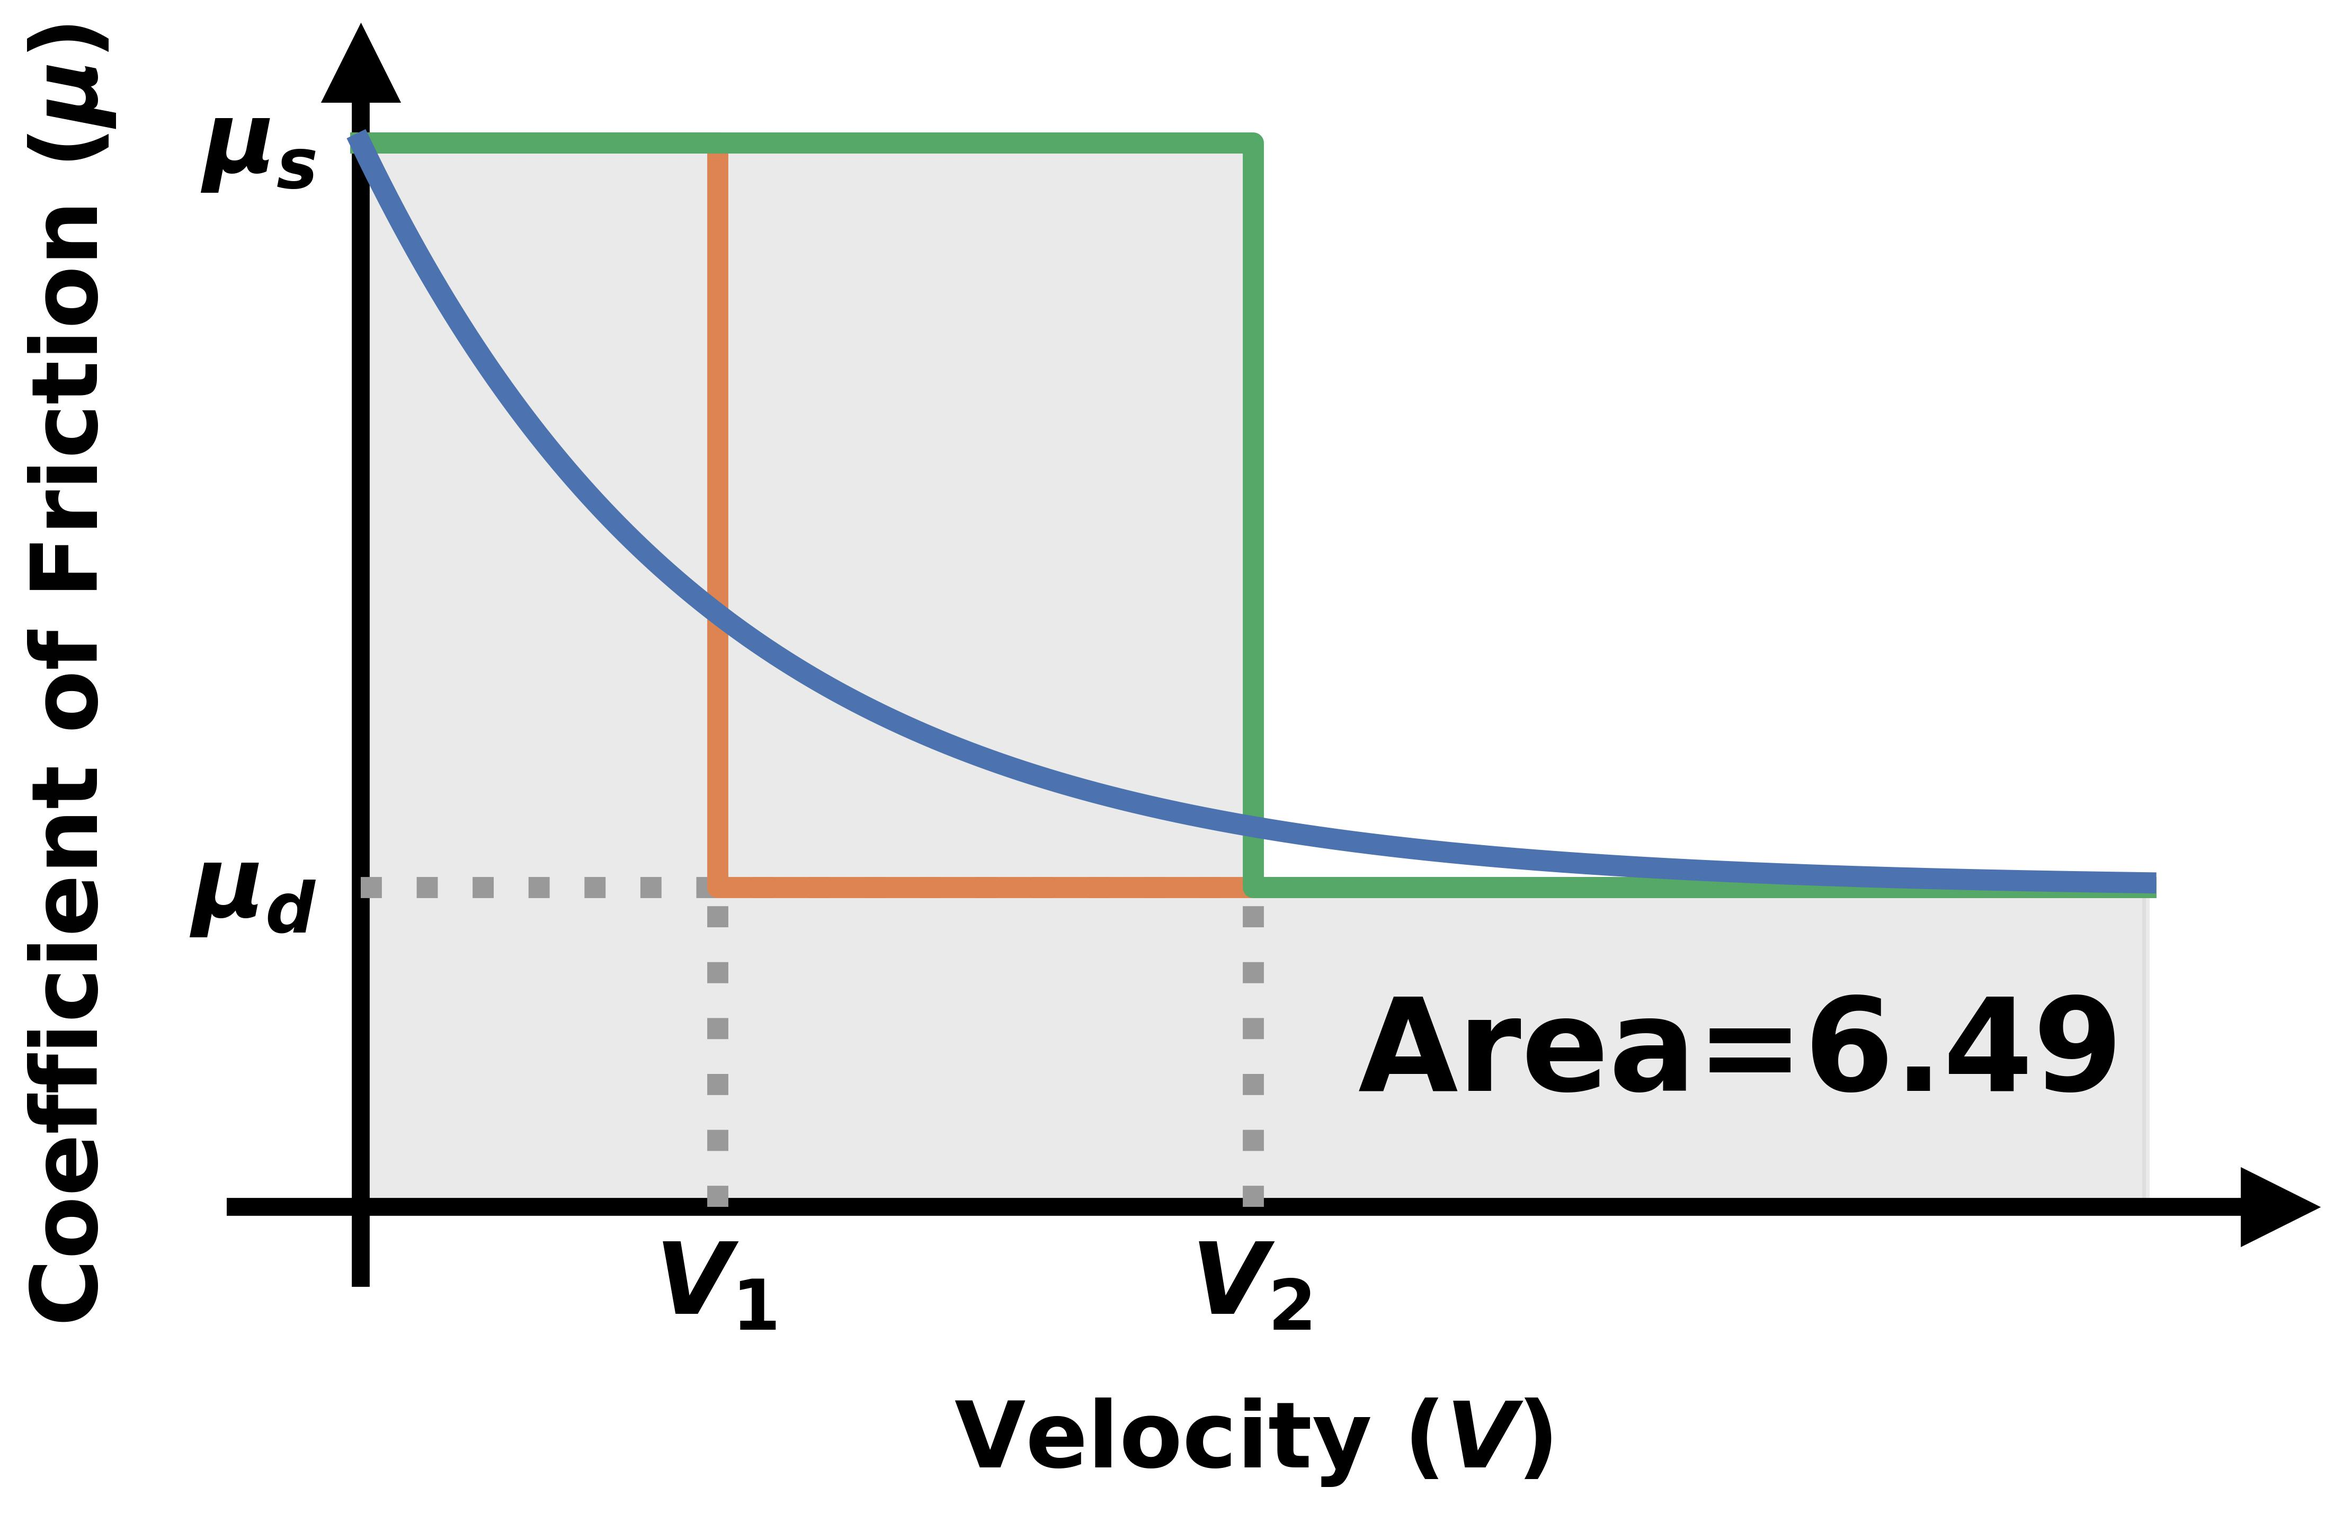
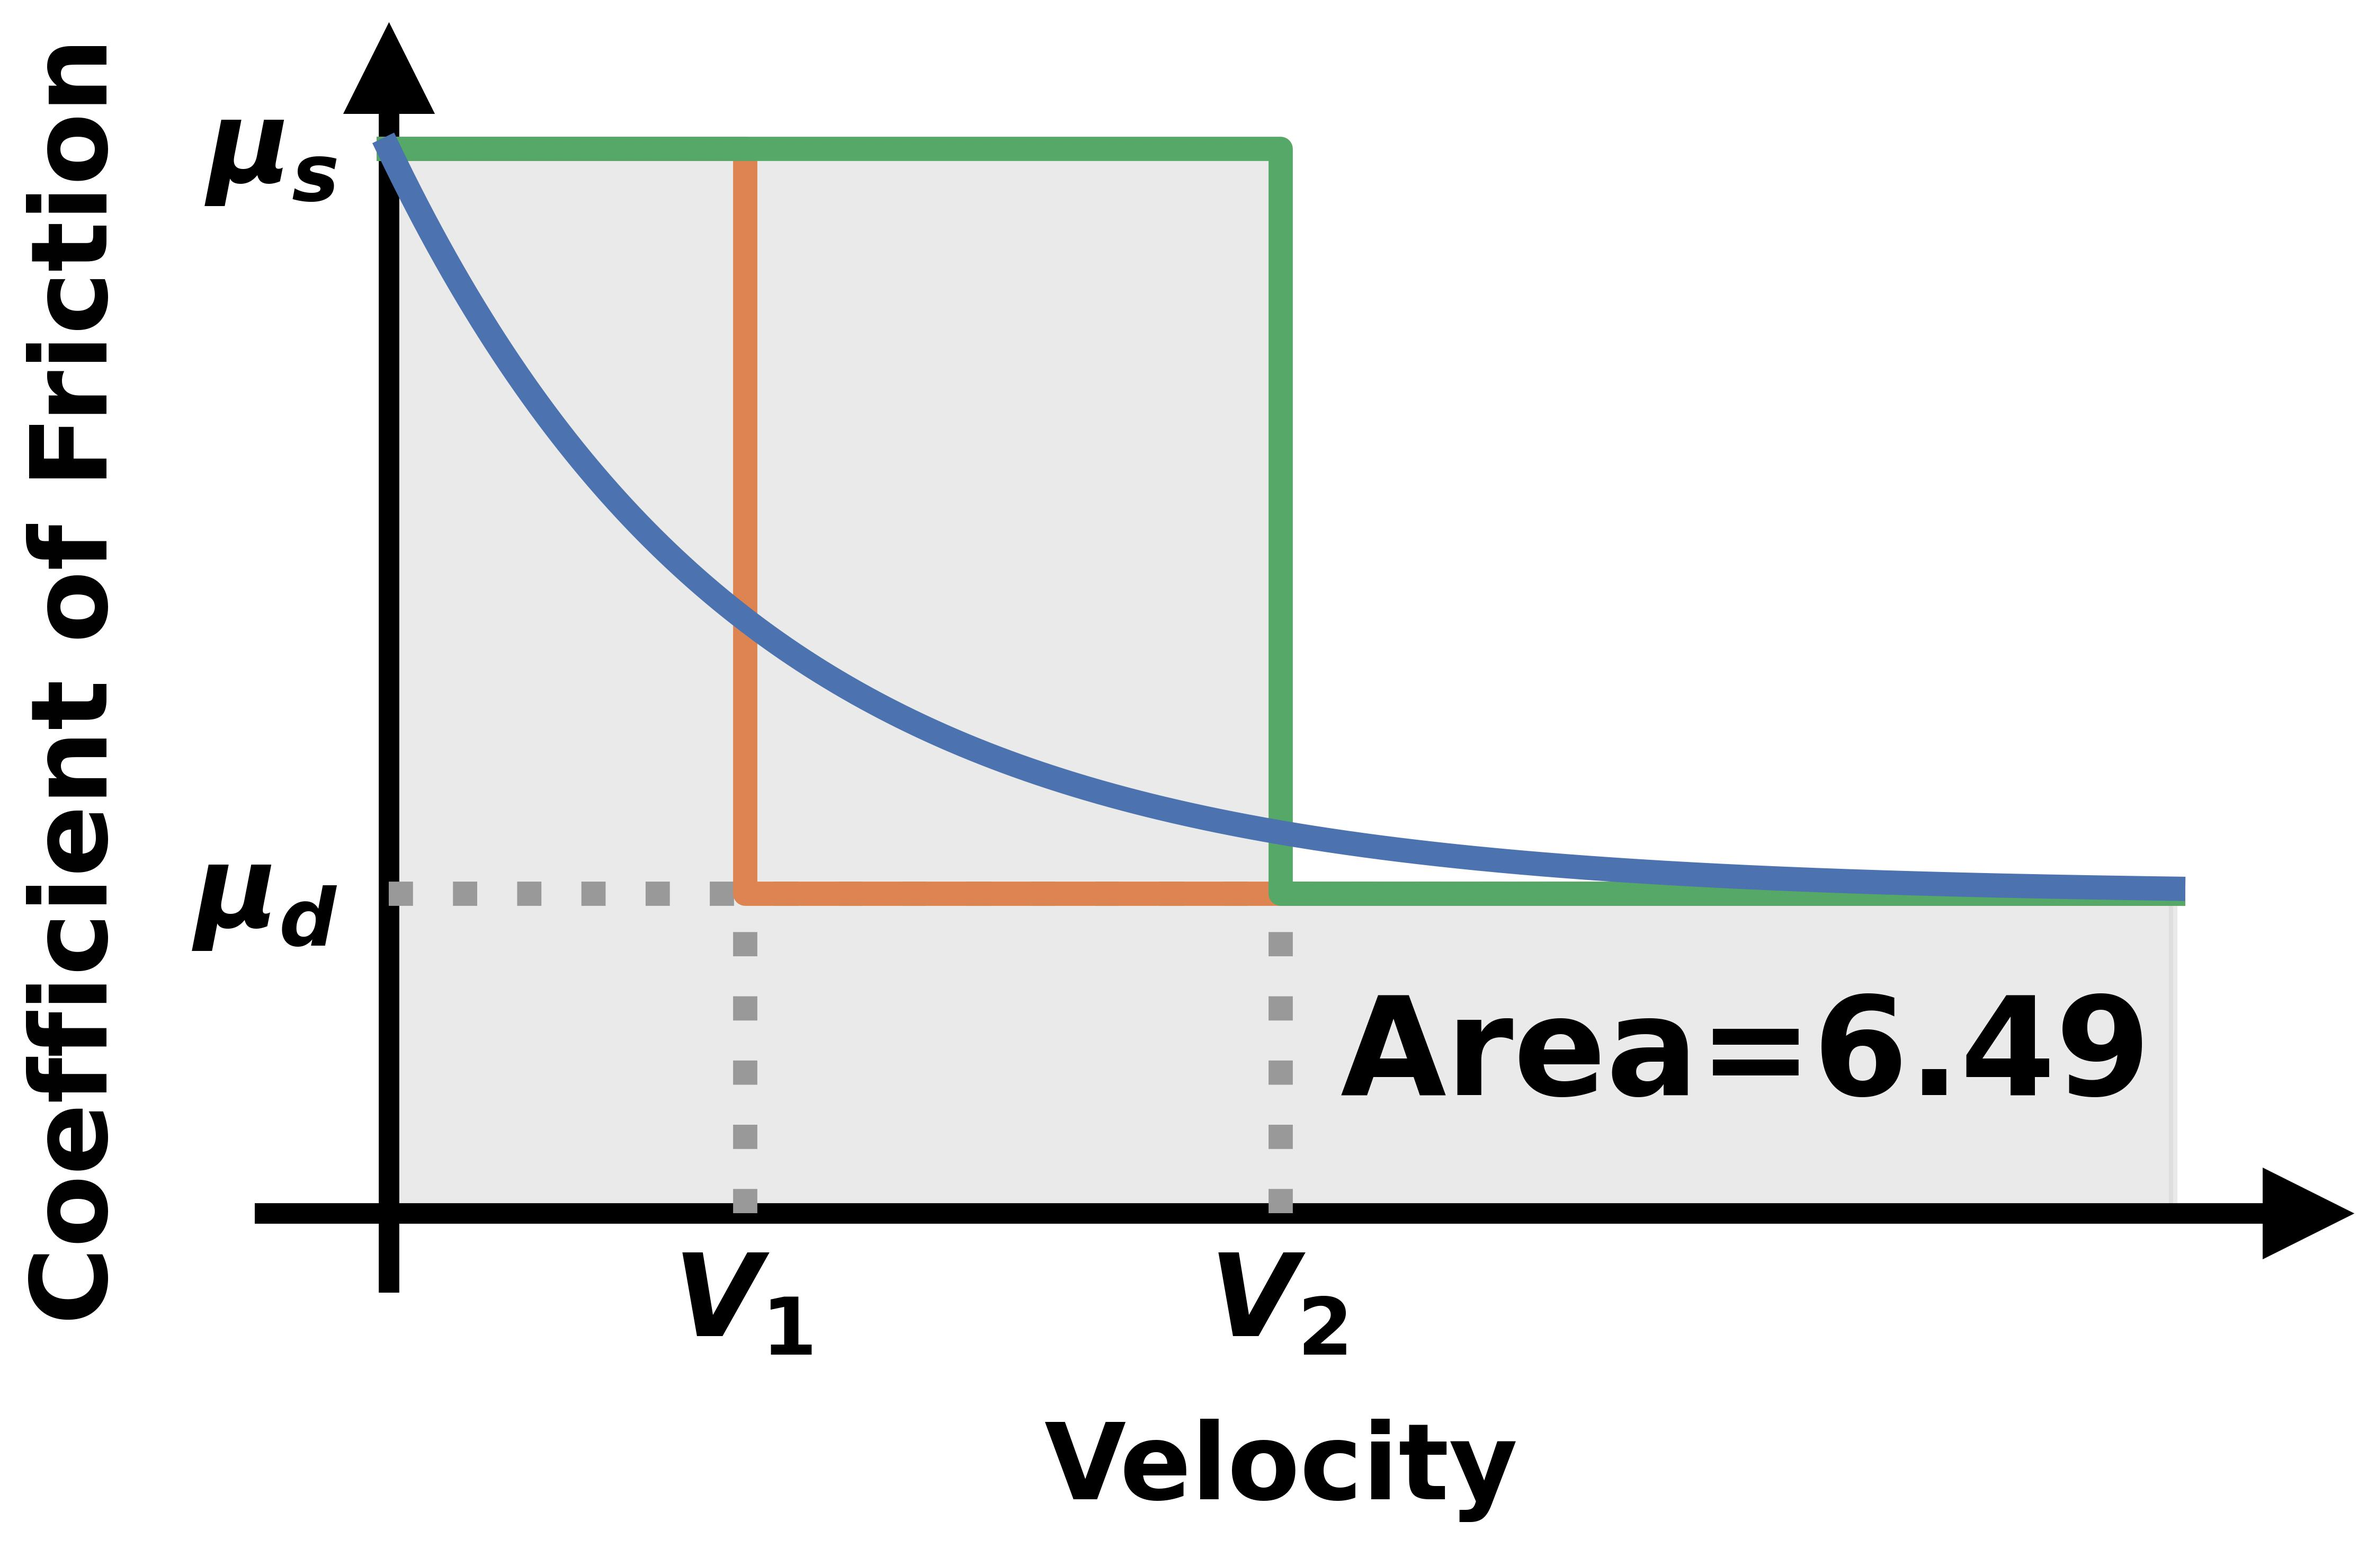
Friction modeling updates

Changed region(s): [[0.0, 0.0, 0.9984, 0.9028], [0.4056, 0.9028, 0.6864, 0.9962]]

diff --git a/src/ExxonMobil Model.tex b/src/ExxonMobil Model.tex
@@ -56,56 +56,60 @@ where $k_{WOB}$ is the weight on bit coefficent, $k_{TQ}$ is the torque on bit c
 
 \subsection{Friction Model}
 \label{sec:exxonfrictionmodel}
-A Stribeck type friction model is used for the static and dynamic friction (\referencename~\cite{ref:cayeux2020a}).  The model takes into account the velocity, well trajectory, and buoyancy effects when calculating the friction forces. The friction model also has the following features:
+In this section, the authors attempt to frame the material in the section \emph{Friction Model} from \referencename~\cite{ref:dixit2021a} into the context of the discussion from \sectionname~\ref{sec:damping}.  It is presented as an alternate explanation of the same material; the reader is encouraged to review the material from \referencename~\cite{ref:dixit2021a} and select which ever explanation is more intuitive the them.
+
+The ExxonMobil model uses a Stribeck type friction model for the static and dynamic friction (more information on drill string friction modeling can be found in \referencename~\cite{ref:cayeux2020a}).  The model takes into account the velocity, well trajectory, and buoyancy effects when calculating the friction forces. The friction model also has the following features:
 \begin{bulletedlist}
-    \item Friction model is coupled, the resultant velocity of the axial and torsional DOF are use to determine the friction force
-    \item No movement occurs until the resultant (combined axial and torsional) reaction force reaches static limit
+    \item Friction model is coupled, the resultant velocity of the axial and torsional degrees of freedom are use to determine the friction force
+    \item No movement occurs until the resultant (combined axial and torsional) reaction force surpasses the static limit
 \end{bulletedlist}
 
-The Stribeck model is used to avoid the discontinuities when $\vec{v}_s$ tends to zero that occur with the Coulomb model (the jump from static to dynamic friction coefficients). The following \equationname~\ref{Stribeck velocity} was proposed by Tunstin (\cite{ref:tustin1947a}).
+The Stribeck friction model is used to avoid the discontinuities that occur when the velocity tends to zero with the Coulomb model (the jump from static to dynamic friction coefficients). The particular model used is the equation
 \begin{equation}
 	\label{Stribeck velocity}
 	\mu_{eff} = \mu_{d} + (\mu_{s} - \mu_{d}) e^{-(|V_s|/V_{CS})}
 \end{equation}
-where $\mu_{eff}$ is effective friction factor, $V_{CS}$ is Stribeck critical velocity, $\mu_{s}$, and $\mu_{d}$ are the static and dynamic friction factors, respectively.
-
+that was proposed by Tunstin (\cite{ref:tustin1947a}) and where $\mu_{eff}$ is the effective friction factor, $V_s$ is the relative sliding velocity between the bodies, $V_{CS}$ is the Stribeck critical velocity, $\mu_{s}$, and $\mu_{d}$ are the static and dynamic coefficients of friction, respectively.
 
 \begin{figure}
 	\begin{minipage}[t]{\linewidth}
 		\begin{minipage}[t]{0.32\linewidth}
 			\centering
 			\includegraphics[width=\linewidth]{schematicstribeckcurve}
-			\subcaption{Schematic Stribeck curve (Hersey number on horizontal axis, friction coefficient on vertical) 1 Boundary lubrication, 2 Mixed lubrication, 3 Hydrodynamic lubrication.}
+             \subcaption{A schematic Stribeck curve (the Hersey number is on the horizontal axis and the friction coefficient on vertical).  The regions are 1) boundary lubrication, 2) mixed lubrication, 3) hydrodynamic lubrication.}
 			\label{fig:schematicstribeckcurve}
 		\end{minipage}
 		\hfill
 		\begin{minipage}[t]{0.32\linewidth}
 			\centering
 			\includegraphics[width=\linewidth]{Martens_curves}
-			\subcaption{Typical Stribeck curves obtained by Adolf Martens.}
+			\subcaption{Typical Stribeck curves obtained by Adolf Martens experimentally.}
 			\label{fig:stribeckcurvesbymartens}
 		\end{minipage}
 		\hfill
 		\begin{minipage}[t]{0.32\linewidth}
 			\centering
 			\includegraphics[width=\linewidth]{stribeckfrictioncurve}
-			\caption[Stribeck friction model]{An example of a Stribeck friction model with .}
-			\label{fig:stribeckfrictioncurveexample}
+            \subcaption{A Stribeck friction model where the coefficient of friction does not increase in the hydrodynamic lubrication zone and the boundary lubrication zone is assumed small enough to be ignored.}
+            \label{fig:stribeckfrictioncurve}
 		\end{minipage}
 	\end{minipage}
-	\caption[Examples of Stribeck friction curves]{Examples of Stribeck friction curves.  \figurename{}s~(\subref{fig:schematicstribeckcurve}) and~(\subref{fig:stribeckcurvesbymartens}) are from \referencename~\cite{ref:martens2023a}.}
-	\label{fig:stribeckfrictioncurve}
+	\caption[Examples of Stribeck friction curves]{Examples of Stribeck friction curves.  A generalized Stribeck curve with the separate regions labeled is shown in~(\subref{fig:schematicstribeckcurve}).  In~(\subref{fig:stribeckcurvesbymartens}), experimentally obtained curves are shown.  In~(\subref{fig:stribeckfrictioncurve}), the model Stribeck friction used in the ExxonMobil model is shown.  \figurename{}s~(\subref{fig:schematicstribeckcurve}) and~(\subref{fig:stribeckcurvesbymartens}) are from \referencename~\cite{ref:martens2023a}.}
+	\label{fig:stribeckfrictioncurveexamples}
 \end{figure}
-which is shown in \figurename~\ref{fig:stribeckfrictioncurve}
+The Tunstin equation is shown in \figurename~\ref{fig:stribeckfrictioncurve}.  It is a particular form of the more general Stribeck friction model, a schematic of which is shown in \figurename~\ref{fig:schematicstribeckcurve}.  Examples of Stribeck curves develop from lab tests are shown in \figurename~\ref{fig:stribeckcurvesbymartens}.
 
-
-The friction is combined with viscous damping (in a manner similar to the source term in the A-S model) \reviewcomment{Is this true, or is there a Stribeck friction model that a velocity dependence in the dynamic friction region and a separate viscous damping term?} to create the curve shown in \figurename~\ref{fig:exxonmobilfriction}.
+In the ExxonMobil model, the friction is combined with viscous damping (in a manner similar to the source term in the A-S model) to create the curve shown in \figurename~\ref{fig:exxonmobilfriction}.
 \begin{figure}
 	\centering
 	\includegraphics[width=\linewidth]{exxonmobilfriction}
-	\caption[Comparison of friction models]{The combined friction and viscous damping model presented in \referencename~\cite{ref:dixit2021a}}
+	\caption[Comparison of friction models]{The combined friction and viscous damping model presented in \referencename~\cite{ref:dixit2021a}.}
 	\label{fig:exxonmobilfriction}
 \end{figure}
+
+
+
+
 
 The dynamic friction force\footnote{This is a conceptualization of the calculation. The presentation in the reference documents and implementation in the code is slightly different.} is calculated as
 \begin{equation}\label{dynamic_force}

diff --git a/src/Introduction.tex b/src/Introduction.tex
@@ -47,6 +47,7 @@ A discrete system with repeating, but non-harmonic loading, would not strictly f
 However, there are obvious similarities between the classical and discrete, non-harmonic loading cases.  A clear response to machine start up and other changes in loading is evident.  Similarly, it can be seen that, given time, the systems will damp out their response to these changes. So while the classical and the discrete, non-harmonically loaded systems exhibit somewhat different traits, they are comparable in the broad sense.  As such, it is useful to speak of the two systems in the a similar manner.  \emph{Therefore, in direct analogy to classical harmonic vibration, we will refer to the transient and steady-state phases of the discrete, non-harmonic system.}
 
 \subsection{Damping}
+\label{sec:damping}
 The governing equations of motion can be represented as
 \begin{align}
     m\ddot{x}      + c_a\dot{x}      + k_ax      + f_f    & = f_e    \label{eq:axial_motion_GE} \\
@@ -62,7 +63,7 @@ The terms $c_a\dot{x}$ and $c_t\dot{\theta}$, are referred to as viscous damping
 
 Both friction and viscous damping are types of damping, which is a more general term referring to forces that remove energy from the system.
 
-These definitions are provided to clarify how these terms are used \emph{in this document}.  Other sources may define them differently, use terms such as ``viscous friction'' not used here, or use a different name for the same concepts.
+These definitions are provided to clarify how these terms are used \emph{in this document}.  Other sources may define them differently, use different terms altogether, or use a different name for the same concepts.
 
 \subsection{Models}
 \subsubsection{Static and Dynamic}
